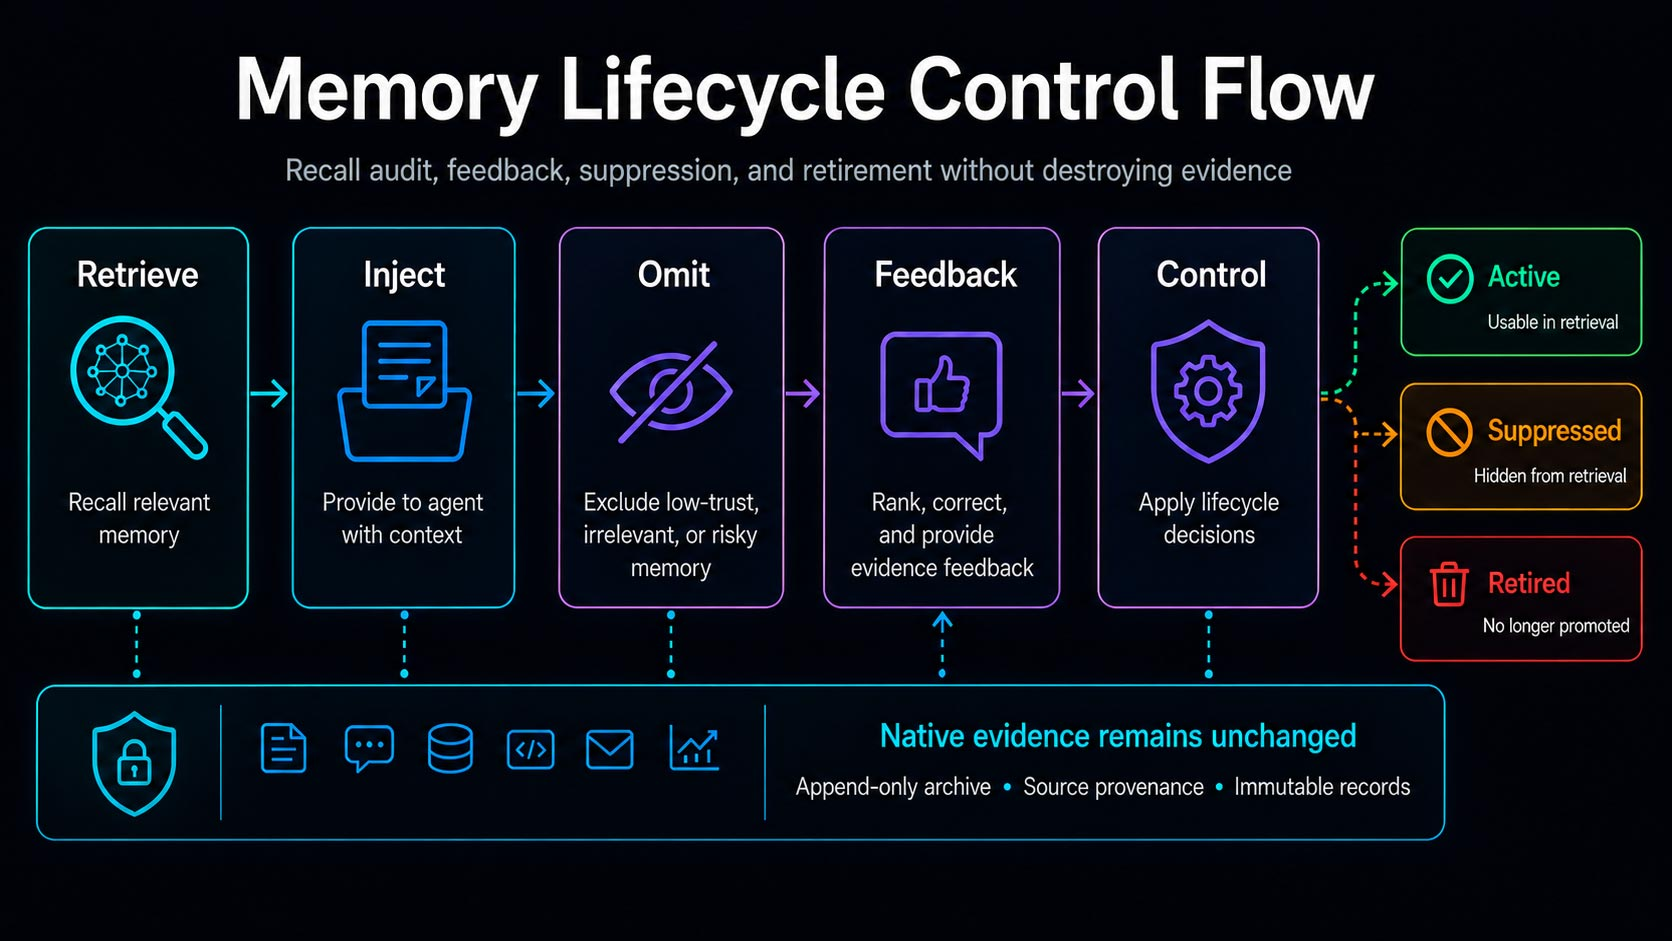
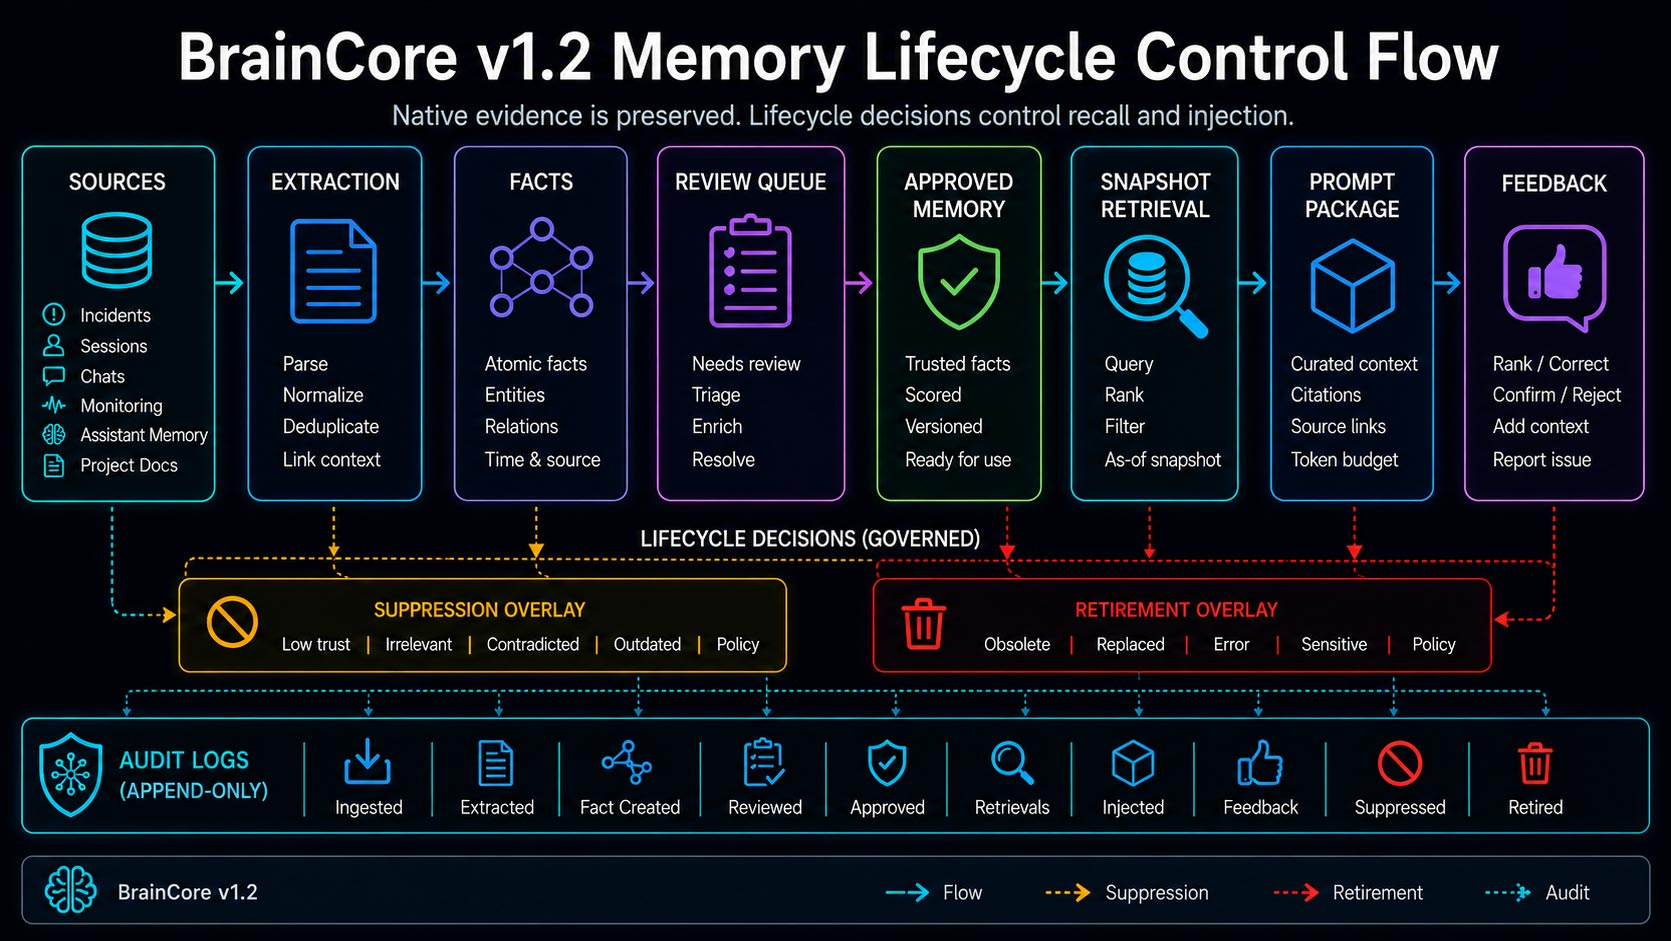
Prepare BrainCore v1.2.0 release assets

Changed region(s): [[0.0, 0.0308, 0.9958, 0.9862]]

diff --git a/README.md b/README.md
@@ -41,7 +41,7 @@ BrainCore processes operational artifacts and automatically:
 All knowledge is stored in PostgreSQL with pgvector, enabling four core retrieval streams (SQL + full-text + vector + temporal) plus optional graph-path retrieval with Reciprocal Rank Fusion.
 
 <p align="center">
-  <img src="assets/lifecycle-control-flow.jpg" alt="BrainCore memory lifecycle control flow showing retrieve, inject, omit, feedback, and control outcomes while native evidence remains unchanged." width="100%" />
+  <img src="assets/lifecycle-control-flow.jpg" alt="BrainCore v1.2 memory lifecycle control flow from sources through extraction, review, approved memory, snapshot retrieval, prompt packaging, feedback, suppression, retirement, and append-only audit logs." width="100%" />
 </p>
 
 ## Quality Standard
@@ -66,7 +66,7 @@ software:
 
 ## Features
 
-- **Source ingestion**: incident notes plus deterministic parsers for Claude Code, Codex, Codex shared memory, Discord, Telegram, Grafana, personal memory, Asana task exports, and Git commits
+- **Source ingestion**: incident notes plus deterministic parsers for Claude Code, Codex, Codex shared memory, Discord, Telegram, Grafana, personal memory, assistant memory exports, Asana task exports, Git commits, and curated project documentation
 - **Hybrid retrieval**: Structured SQL + FTS + vector similarity + temporal expansion, with optional graph path search, fused with RRF (`k=60`)
 - **Trust classes**: `deterministic`, `corroborated_llm`, `single_source_llm`, `human_curated`
 - **Enterprise memory lifecycle overlay**: Suppress or retire recall targets without destroying native evidence, with append-only feedback, score, and audit trails
@@ -313,7 +313,7 @@ data sources
 ```
 
 <p align="center">
-  <img src="assets/architecture.jpg" alt="BrainCore architecture diagram showing sources, archive, extract, consolidate, retrieve, publish, hybrid retrieval, and evidence audit guarantees." width="100%" />
+  <img src="assets/architecture.jpg" alt="BrainCore v1.2 architecture diagram showing source ingestion, archive, extract, load, review, governed memories, snapshot builder, MCP and CLI retrieval, storage indexes, audit lineage, and schema management." width="100%" />
 </p>
 
 ### Trust classes
@@ -457,9 +457,9 @@ The response includes:
 That makes it possible to debug retrieval behavior without guessing
 which stream contributed the hit.
 
-## The 9 Data Sources
+## The 12 Data Sources
 
-BrainCore currently ships `9 deterministic parsers`.
+BrainCore currently ships `12 deterministic source parsers`.
 
 | Parser | Input | Typical output |
 |---|---|---|
@@ -472,6 +472,9 @@ BrainCore currently ships `9 deterministic parsers`.
 | `personal-memory-parser.ts` | personal memory markdown | curated memory and reference facts |
 | `asana-parser.ts` | Asana task export JSON/JSONL | task state, routing, project, and custom-field facts |
 | `git-parser.ts` | git commit JSON/JSONL or local repository | commit timeline, author, and touched-file facts |
+| `pai-auto-memory-parser.ts` | PAI auto-memory markdown | imported assistant-memory facts for review-gated promotion |
+| `vestige-parser.ts` | Vestige JSON/JSONL export | imported assistant-memory facts for review-gated promotion |
+| `project-doc-parser.ts` | curated project documentation manifest | explicit project facts gated by value review |
 
 The repo also contains extractor infrastructure files such as
 `deterministic.ts`, `semantic.ts`, `quality-gate.ts`,

diff --git a/assets/README.md b/assets/README.md
@@ -8,8 +8,8 @@ active assets should be referenced by public docs.
 | File | Status | Dimensions | Format | Usage |
 |---|---|---|---|---|
 | `og.jpg` | Active | 1672 by 941 | JPEG | README hero block and social preview source |
-| `lifecycle-control-flow.jpg` | Active | 1672 by 941 | JPEG | README lifecycle control flow overview |
-| `architecture.jpg` | Active | 1672 by 941 | JPEG | README architecture section |
+| `lifecycle-control-flow.jpg` | Active | 1671 by 941 | JPEG | README lifecycle control flow overview |
+| `architecture.jpg` | Active | 1671 by 941 | JPEG | README architecture section |
 | `maintained-by-trent.jpg` | Active | 1200 by 397 | JPEG | README author note banner |
 | `manifest.json` | Reference | n/a | JSON | Hash and dimension manifest |
 | `README.md` | Reference | n/a | Markdown | Asset notes |

diff --git a/CHANGELOG.md b/CHANGELOG.md
@@ -4,6 +4,8 @@ All notable changes to BrainCore are documented in this file.
 
 ## [Unreleased]
 
+## [1.2.0] - 2026-05-23
+
 ### Added
 - Added additive memory governance migration `022_memory_governance.sql` with prompt recall, feedback, quality audit, context audit, lifecycle outbox, cue, compaction, and source attribution support.
 - Added additive assistant memory source migration `023_assistant_memory_sources.sql`